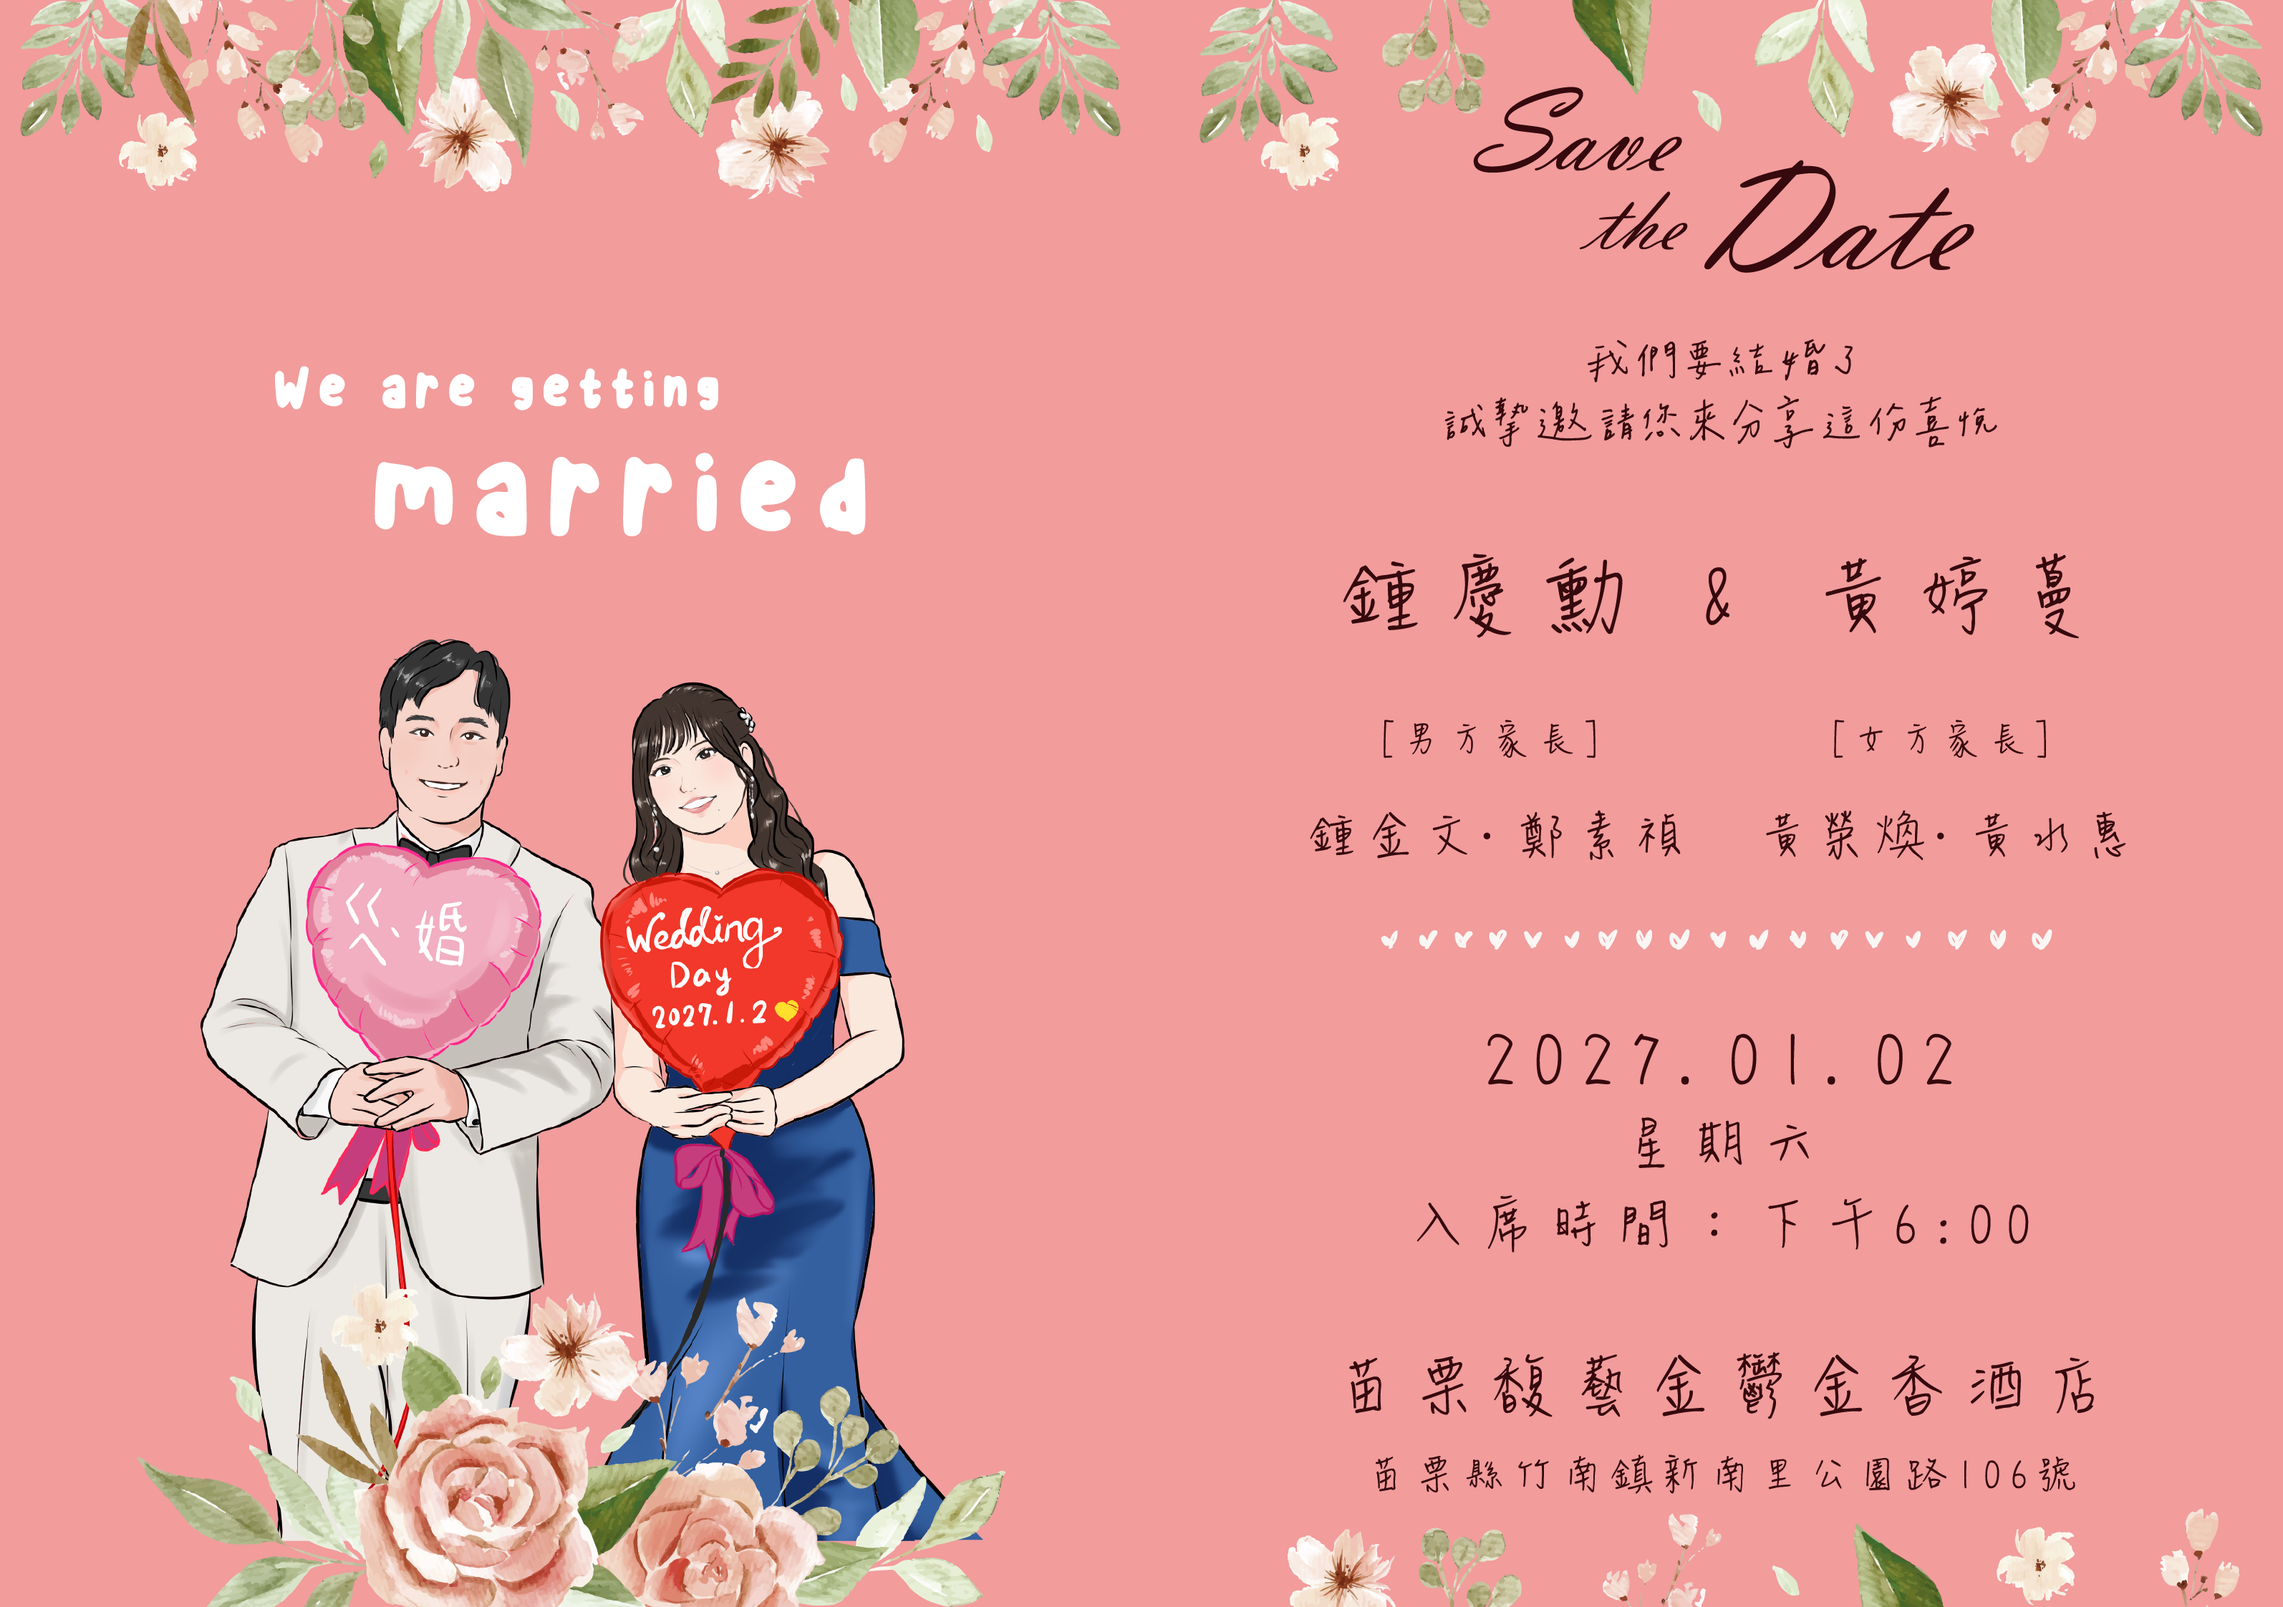
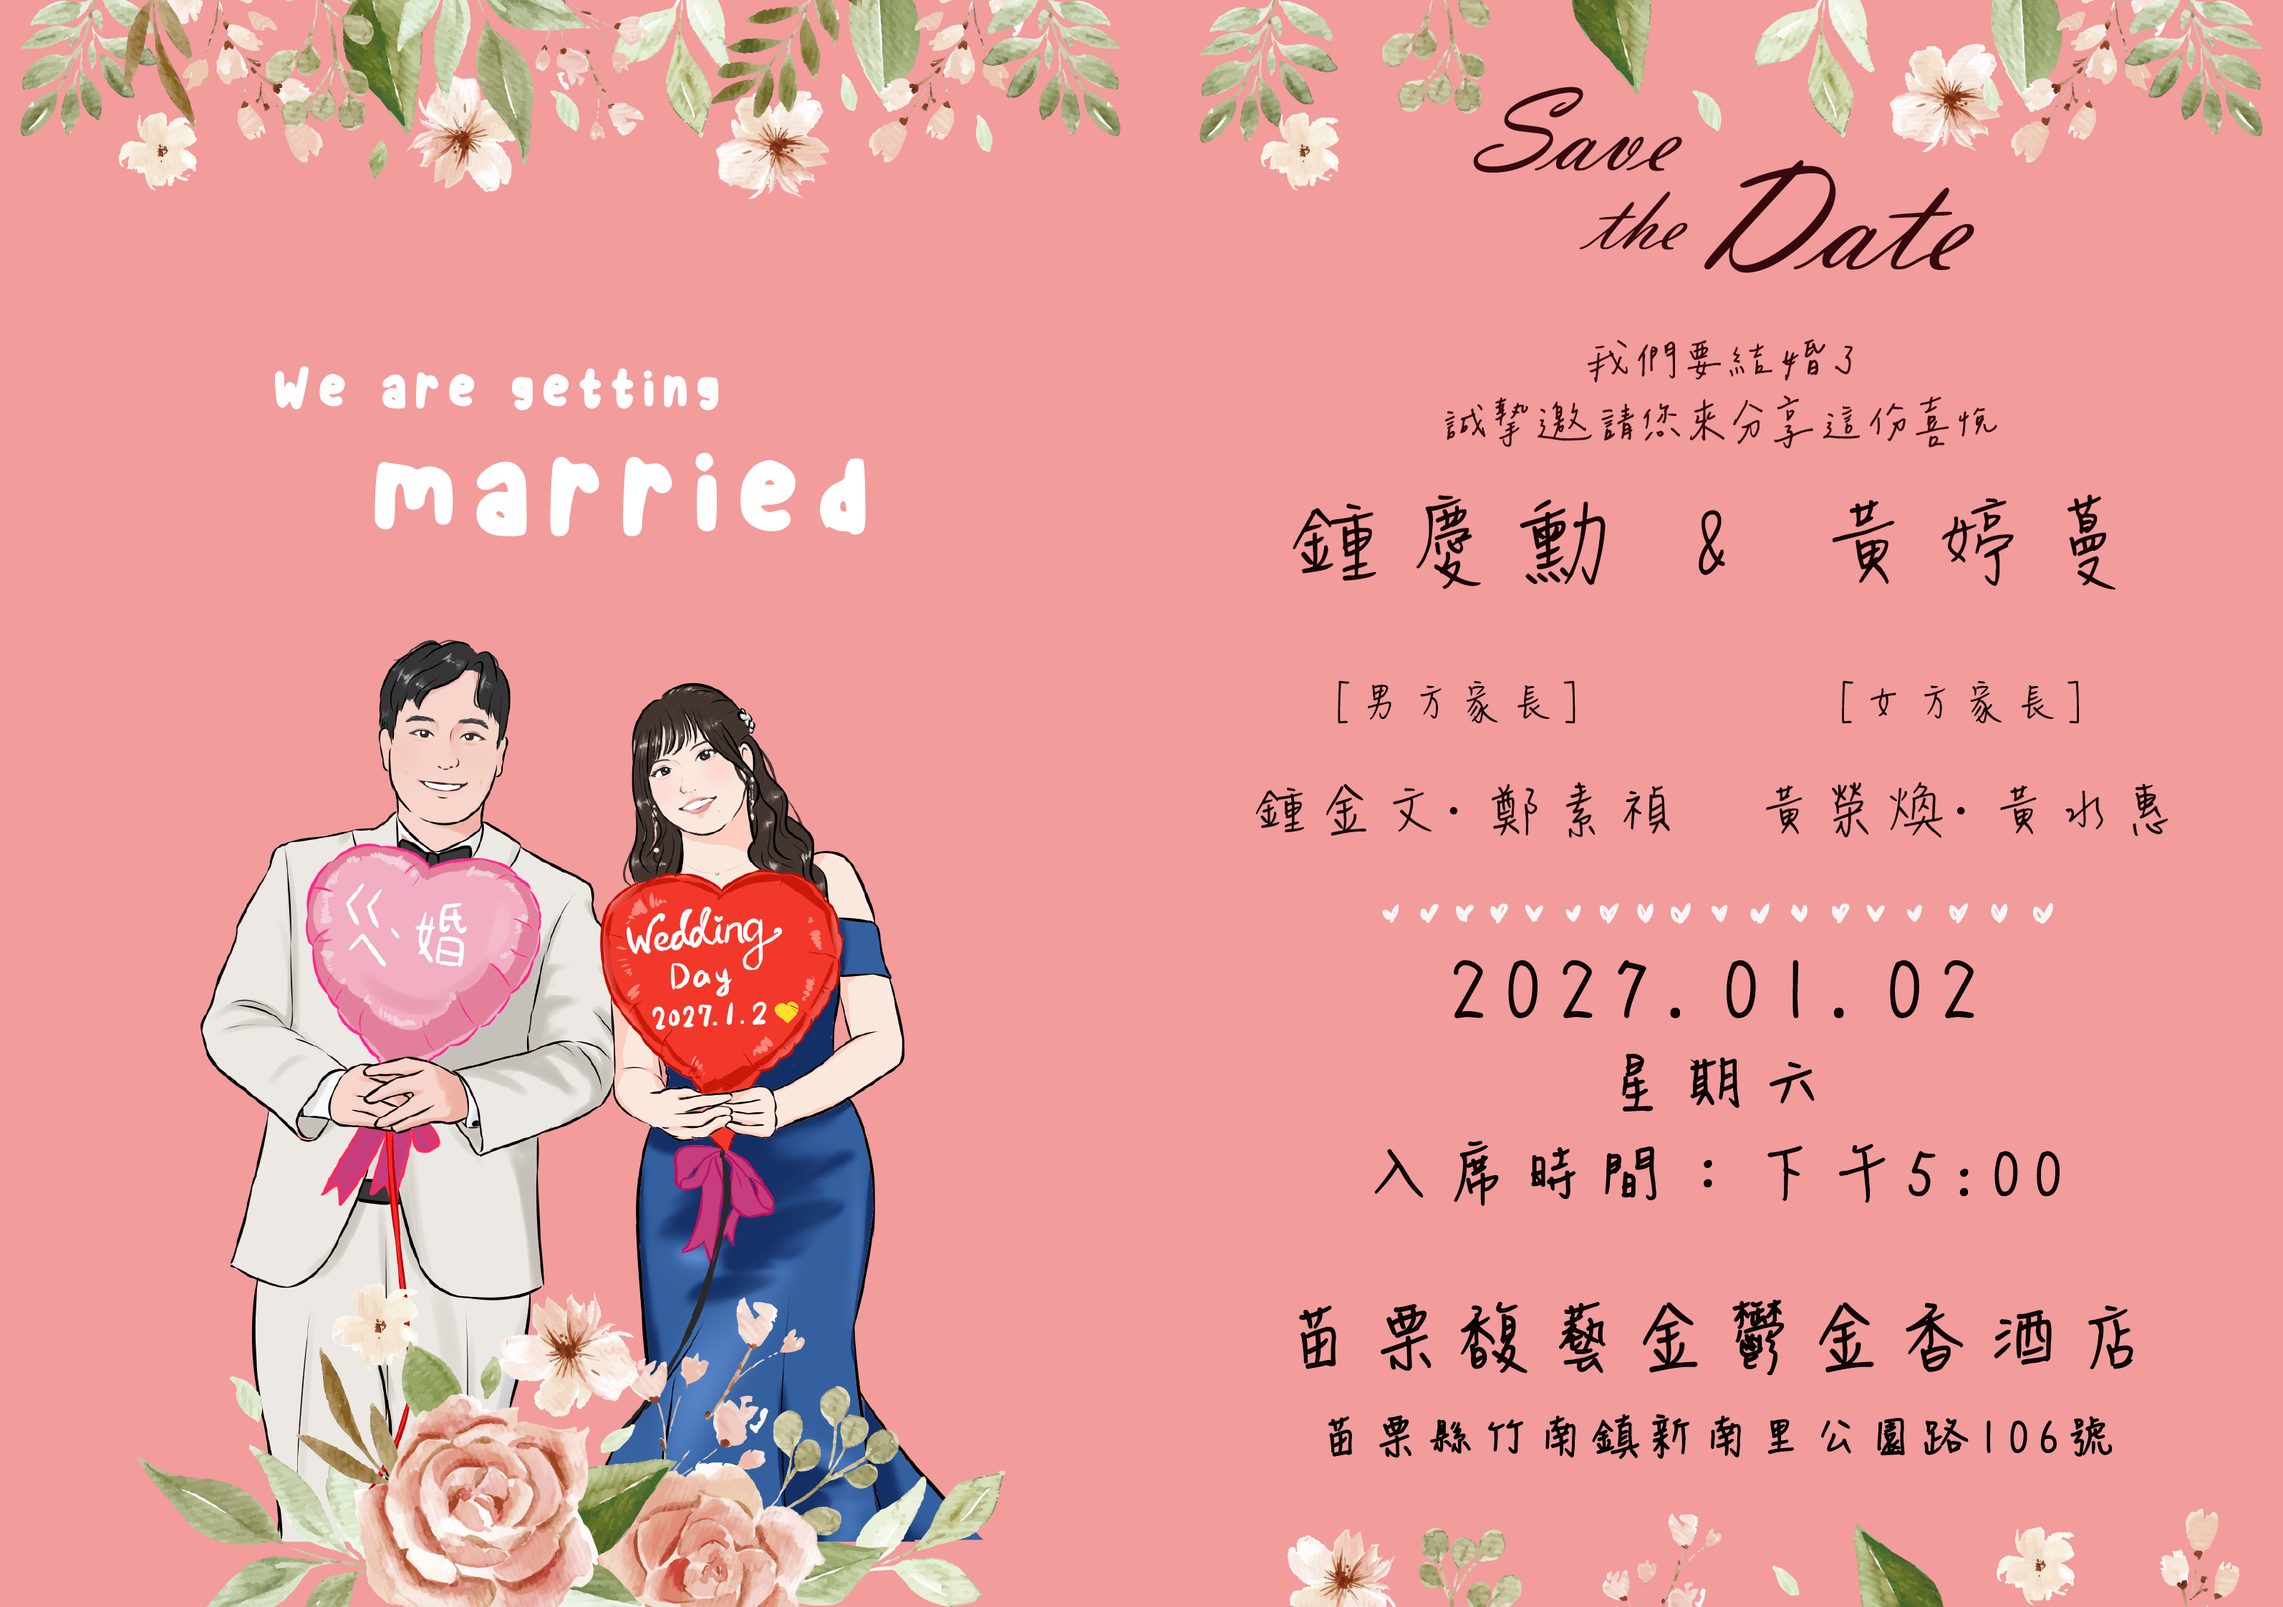
文字大小調整

diff --git a/index.html b/index.html
@@ -200,7 +200,7 @@
   .cover .date{
     margin-top: 14px;
     font-family: var(--serif-en);
-    font-size: 24px;
+    font-size: 28px;
     letter-spacing: 0.4em;
     color: var(--ink-soft);
   }
@@ -298,13 +298,13 @@
   }
   .schedule-events .item .time{
     font-family: var(--serif-en);
-    font-size: 16px;
+    font-size: 32px;
     letter-spacing: 0.12em;
     color: var(--gold);
   }
   .schedule-events .item .label{
     margin-top: 2px;
-    font-size: 15px;
+    font-size: 20px;
     letter-spacing: 0.08em;
     color: var(--ink);
     font-weight: 400;
@@ -360,7 +360,7 @@
   }
   .calendar-caption .d{
     font-family: var(--serif-en);
-    font-size: 18px;
+    font-size: 22px;
     letter-spacing: 0.2em;
     color: var(--ink);
   }
@@ -756,7 +756,7 @@
         <img src="003.jpg" width="100%" alt="">
         <!-- <svg viewBox="0 0 64 64" fill="none" stroke="currentColor" stroke-width="1.1"><rect x="10" y="16" width="44" height="32" rx="1"/><circle cx="32" cy="32" r="8"/><path d="M24 16l3-5h10l3 5"/></svg> -->
       </div>
-      <div class="photo-slot" data-label="PHOTO 03">
+      <div class="photo-slot" data-label="後續會持續上傳照片哦!">
         <!-- <img src="004.jpg" width="100%" alt=""> -->
         <svg viewBox="0 0 64 64" fill="none" stroke="currentColor" stroke-width="1.1"><rect x="10" y="16" width="44" height="32" rx="1"/><circle cx="32" cy="32" r="8"/><path d="M24 16l3-5h10l3 5"/></svg>
       </div>
